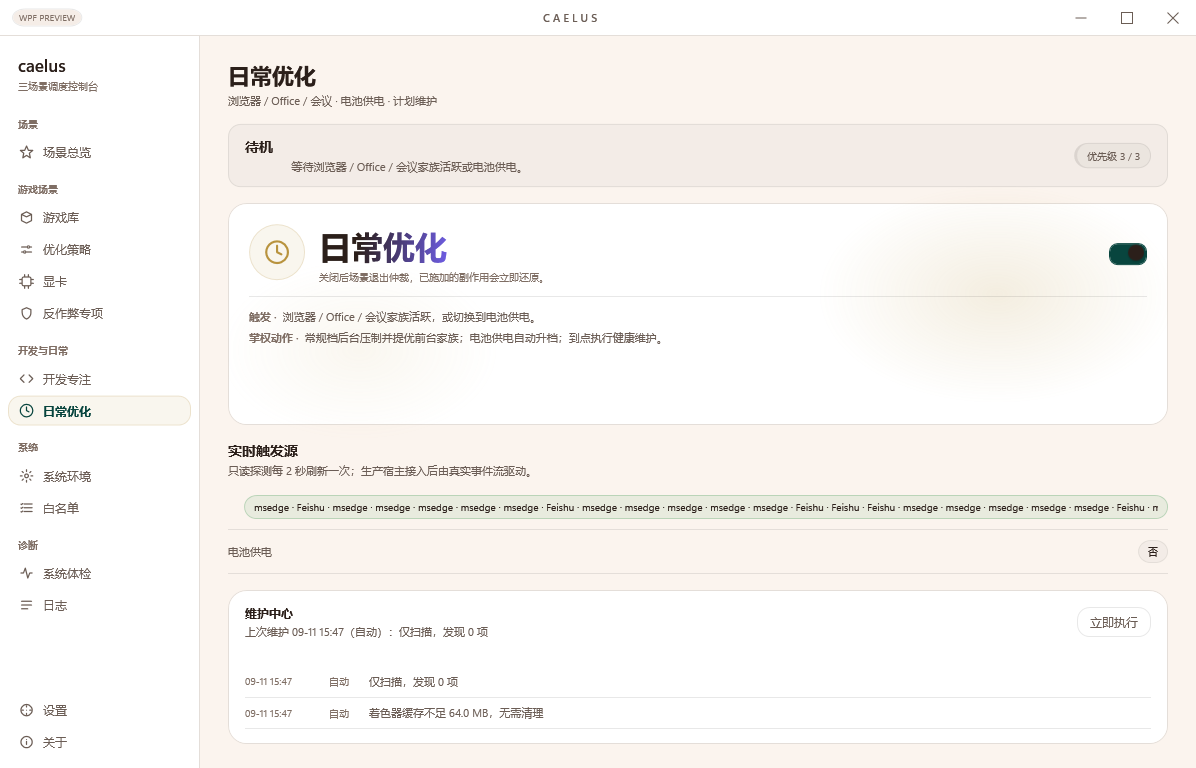
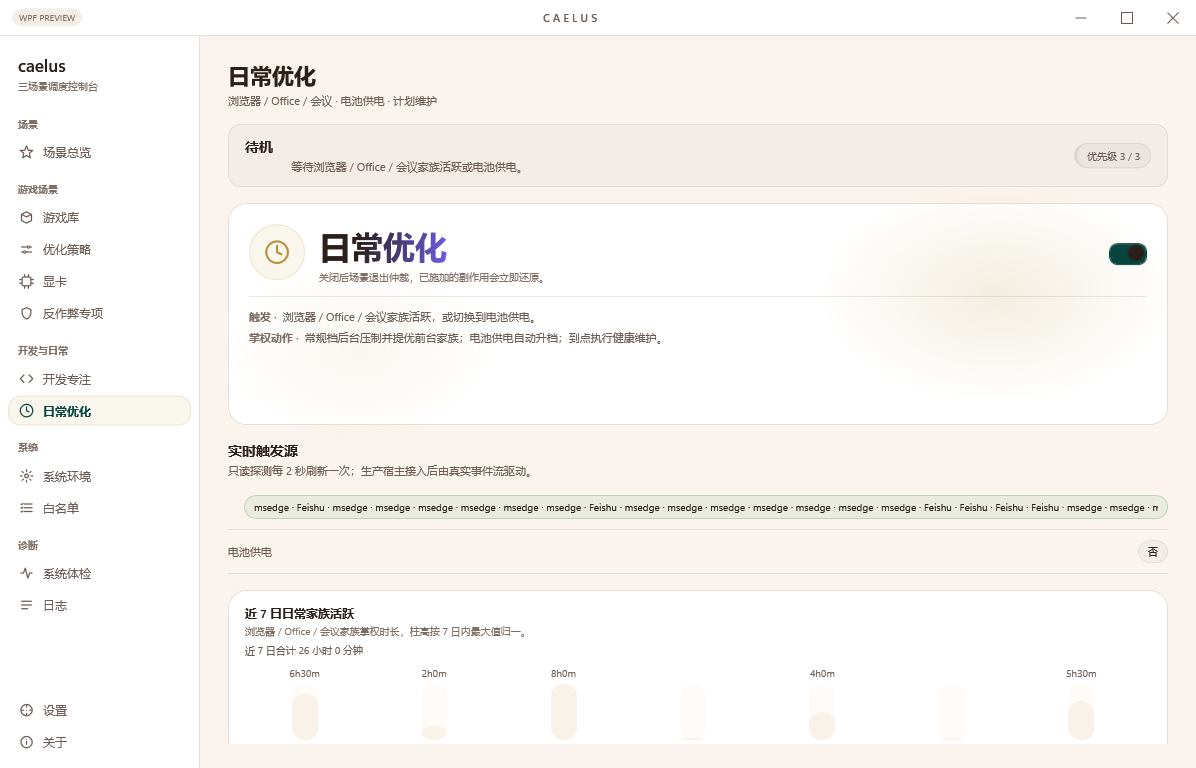
chore: 双场景扩展收口——矩阵重摄 76 张 + demo-daily-trend 新增与 demo-dev-focus 刷新（8 列种子演示数据）+ 三语 README 计数 287→291 与特性句 + 规格 §11 偏差回写 + FormatSeconds 零分钟省略

diff --git a/wpf/ScenarioViewModel.cs b/wpf/ScenarioViewModel.cs
@@ -805,7 +805,7 @@ namespace CaelusApp
         {
             long h = seconds / 3600;
             long m = (seconds % 3600) / 60;
-            if (h > 0) return h + " 小时 " + m + " 分钟";
+            if (h > 0) return m > 0 ? h + " 小时 " + m + " 分钟" : h + " 小时";
             return m + " 分钟";
         }
     }

diff --git a/README.en.md b/README.en.md
@@ -8,7 +8,7 @@
 
 [![Platform](https://img.shields.io/badge/platform-Windows%2010%2F11-%235E5CE6)](https://github.com/wxj-1019/Caelus)
 [![Language](https://img.shields.io/badge/language-C%23%20.NET%20Framework%204.x-%237A78F0)](https://github.com/wxj-1019/Caelus)
-[![Self-tests](https://img.shields.io/badge/self%2Dtests-287%20passing-%233DD68C)](https://github.com/wxj-1019/Caelus)
+[![Self-tests](https://img.shields.io/badge/self%2Dtests-291%20passing-%233DD68C)](https://github.com/wxj-1019/Caelus)
 [![Privacy](https://img.shields.io/badge/privacy-local%20only%20%C2%B7%20zero%20upload-%233DD68C)](https://github.com/wxj-1019/Caelus)
 [![License](https://img.shields.io/badge/license-resale%20forbidden-%23E5A13D)](LICENSE)
 
@@ -67,6 +67,7 @@ Recovery works from records: for every process it touches, Caelus stores the sta
 - Standby-memory cleanup before a match (off by default) and an MPO troubleshooting switch
 - Dev-focus deepening: the IDE roster (VS / VS Code / Rider / JetBrains / Cursor and friends) can be extended with your own entries; focus time keeps a per-day history locally (60 days) with a 7-day trend on the scenario page; distraction hits are counted per day and per app, with an optional focus block (graceful close first, off by default)
 - Dev-service watchdog: listed local services (node, redis-server and friends) are exempt from background suppression; when the last instance exits you get a tray notice, and an optional auto-relaunch starts it again with its original command line (circuit breaker after 5 consecutive failures, off by default)
+- Scene stats: focus time, compile sessions and daily-family uptime are kept per day locally (60 days) with 7-day trend charts on both scenario pages, a daily focus goal progress line, and a next-maintenance countdown in the maintenance center; distraction hits are counted per app with an optional focus block (off by default)
 - Each session's outcome goes to the runtime log: how long you played, how many background processes were suppressed, how much CPU they used in total
 - The UI ships in Simplified Chinese only; the multi-language machinery is still in the code
 
@@ -160,7 +161,7 @@ The implementation uses Windows APIs including `SetPriorityClass`, `SetProcessDe
 
 ## Validation scope
 
-The built-in suite currently contains `287` tests, covering target detection and session protection, suppression and recovery (including PID reuse and crash wake-up), CPU topology and partitioning, profile storage format compatibility and unknown-version protection, game scanning and accelerator filtering, the boundaries of the launcher-learning mechanism, system audit thresholds, League column boundaries and UI rendering. A missing platform capability is recorded as `SKIP`, never as `PASS`.
+The built-in suite currently contains `291` tests, covering target detection and session protection, suppression and recovery (including PID reuse and crash wake-up), CPU topology and partitioning, profile storage format compatibility and unknown-version protection, game scanning and accelerator filtering, the boundaries of the launcher-learning mechanism, system audit thresholds, League column boundaries and UI rendering. A missing platform capability is recorded as `SKIP`, never as `PASS`.
 
 The same-core contention test deliberately puts two compute processes on one core and suspends the contender. It only shows that throughput recovers once CPU time is released — it is not evidence of real-game FPS or 1% Low gains.
 

diff --git a/docs/superpowers/specs/2026-09-12-scene-stats-display-design.md b/docs/superpowers/specs/2026-09-12-scene-stats-display-design.md
@@ -1,7 +1,7 @@
 # 开发/日常双场景扩展与显示优化设计（场景统计统一 + 显示打磨）
 
 日期：2026-09-12
-状态：实施中
+状态：已实施（自测 287→291 全绿；偏差见 §11）
 上游：2026-09-11-devfocus-deepen-design.md（开发专注深化 + 迭代轮 + E2E，287 项自测）
 
 ## 0. 现状与目标
@@ -95,3 +95,12 @@
 ## 11. 实施偏差记录（实施完成后回写）
 
 （暂空）
+
+## 11. 实施偏差记录（实施完成后回写）
+
+- **自测 287→291（+4）**：8 列历史合并兼容（扩充既有用例）、日常掌权记录、编译时长记账、目标解析边界、编译起止集成。
+- **DailyTrendTotalsText 初版用了无通知自动属性**——WPF 绑定不刷新，已改为字段 + SetProperty（开发侧 FocusTrendRow 系列一致）。
+- **FormatSeconds 补零分钟省略**：「26 小时 0 分钟」→「26 小时」，全局共用格式化。
+- **日常趋势标签用小时格式**：日常家族整天掌权时分钟数过大（558m），改用 9h18m 式标签；专注侧保持分钟（通常 <8h）。
+- **维护倒计时从未运行时不显示行**（空串隐藏），损坏时间戳同样隐藏——避免误导性文案。
+- **重摄收口**：矩阵 76 张 + demo-dev-focus 刷新 + 新增 demo-daily-trend（8 列种子数据：专注/日常/编译三场景同文件）；演示数据截完即还原。
